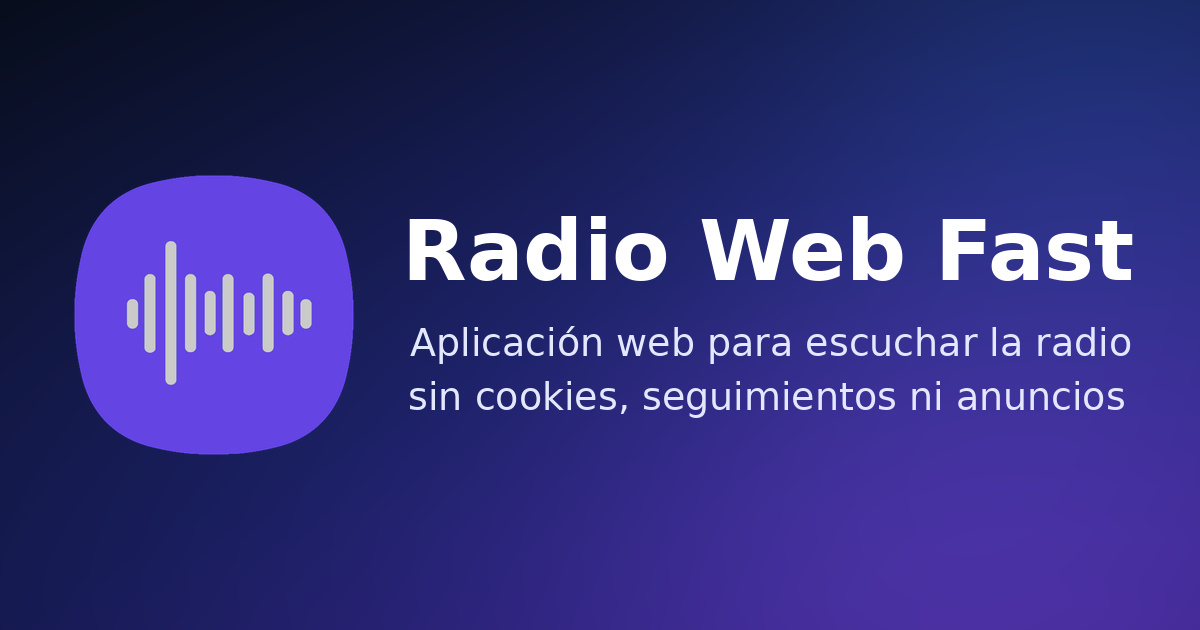
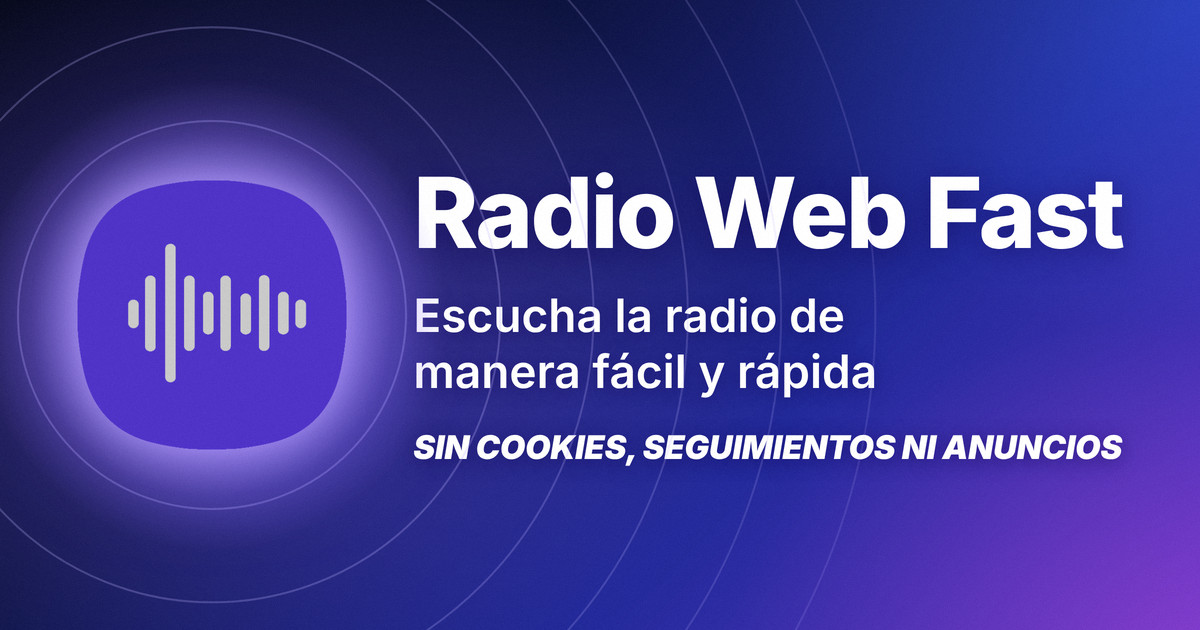
v137: nueva imagen de preview de redes (og-radio.jpg) y og:image con ?v=2
Imagen Open Graph rediseñada (1200x630): conjunto centrado con márgenes
iguales, icono con halo por detrás, ondas hasta la «b» de «Web» y dos
subtítulos («Escucha la radio de manera fácil y rápida» y «SIN COOKIES,
SEGUIMIENTOS NI ANUNCIOS»). og:image y la imagen del schema.org pasan a
og-radio.jpg?v=2 en index, live/ y live_ser/ para que las redes
refresquen la caché. Sube la versión a 137 (sw.js y los 3 manifest).

Claude-Session: https://claude.ai/code/session_01XLSZwiKHr7eWL4gzZZ8GAT

diff --git a/live_ser/index.html b/live_ser/index.html
@@ -22,7 +22,7 @@
   <meta property="og:url" content="https://radioes.pages.dev/live_ser/">
   <meta property="og:site_name" content="Radio Web Fast SER">
   <meta property="og:locale" content="es_ES">
-  <meta property="og:image" content="https://radioes.pages.dev/resources/og-radio.jpg">
+  <meta property="og:image" content="https://radioes.pages.dev/resources/og-radio.jpg?v=2">
   <meta property="og:image:width" content="1200">
   <meta property="og:image:height" content="630">
   <meta property="og:image:alt" content="Radio Web Fast: aplicación web para escuchar la radio sin cookies, seguimientos ni anuncios">
@@ -36,7 +36,7 @@
     "name": "Radio Web Fast SER",
     "description": "Reproductor sencillo de la SER en directo con un solo botón. Sin necesidad de instalar nada y sin rastreos innecesarios.",
     "url": "https://radioes.pages.dev/live_ser/",
-    "image": "https://radioes.pages.dev/resources/og-radio.jpg",
+    "image": "https://radioes.pages.dev/resources/og-radio.jpg?v=2",
     "applicationCategory": "MultimediaApplication",
     "operatingSystem": "All",
     "inLanguage": "es",

diff --git a/live/index.html b/live/index.html
@@ -22,7 +22,7 @@
   <meta property="og:url" content="https://radioes.pages.dev/live/">
   <meta property="og:site_name" content="Radio Web Fast Live">
   <meta property="og:locale" content="es_ES">
-  <meta property="og:image" content="https://radioes.pages.dev/resources/og-radio.jpg">
+  <meta property="og:image" content="https://radioes.pages.dev/resources/og-radio.jpg?v=2">
   <meta property="og:image:width" content="1200">
   <meta property="og:image:height" content="630">
   <meta property="og:image:alt" content="Radio Web Fast: aplicación web para escuchar la radio sin cookies, seguimientos ni anuncios">
@@ -36,7 +36,7 @@
     "name": "Radio Web Fast Live",
     "description": "Reproductor de radio en directo vibecodeado. Sin necesidad de instalar nada y sin rastreos innecesarios.",
     "url": "https://radioes.pages.dev/live/",
-    "image": "https://radioes.pages.dev/resources/og-radio.jpg",
+    "image": "https://radioes.pages.dev/resources/og-radio.jpg?v=2",
     "applicationCategory": "MultimediaApplication",
     "operatingSystem": "All",
     "inLanguage": "es",

diff --git a/index.html b/index.html
@@ -22,7 +22,7 @@
   <meta property="og:url" content="https://radioes.pages.dev/">
   <meta property="og:site_name" content="Radio Web Fast">
   <meta property="og:locale" content="es_ES">
-  <meta property="og:image" content="https://radioes.pages.dev/resources/og-radio.jpg">
+  <meta property="og:image" content="https://radioes.pages.dev/resources/og-radio.jpg?v=2">
   <meta property="og:image:width" content="1200">
   <meta property="og:image:height" content="630">
   <meta property="og:image:alt" content="Radio Web Fast: aplicación web para escuchar la radio sin cookies, seguimientos ni anuncios">
@@ -36,7 +36,7 @@
     "name": "Radio Web Fast",
     "description": "Reproductor personal de radio y podcast vibecodeado. Sin necesidad de instalar nada y sin rastreos innecesarios.",
     "url": "https://radioes.pages.dev/",
-    "image": "https://radioes.pages.dev/resources/og-radio.jpg",
+    "image": "https://radioes.pages.dev/resources/og-radio.jpg?v=2",
     "applicationCategory": "MultimediaApplication",
     "operatingSystem": "All",
     "inLanguage": "es",

diff --git a/sw.js b/sw.js
@@ -1,5 +1,5 @@
 
-const CACHE_NAME = "radio-full-cache-v136";
+const CACHE_NAME = "radio-full-cache-v137";
 
 const FILES_TO_CACHE = [
   "./",
